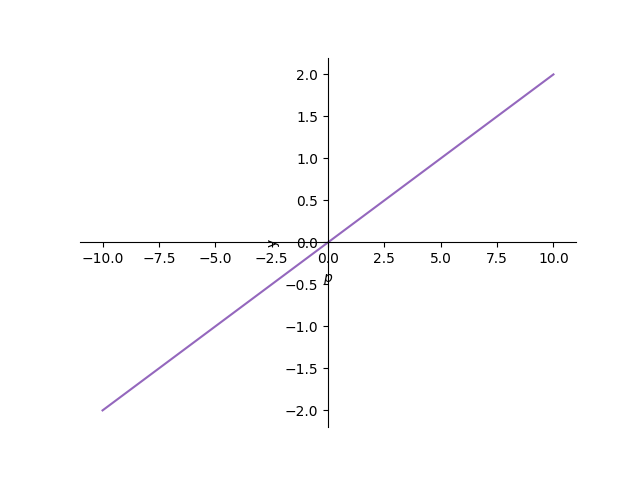
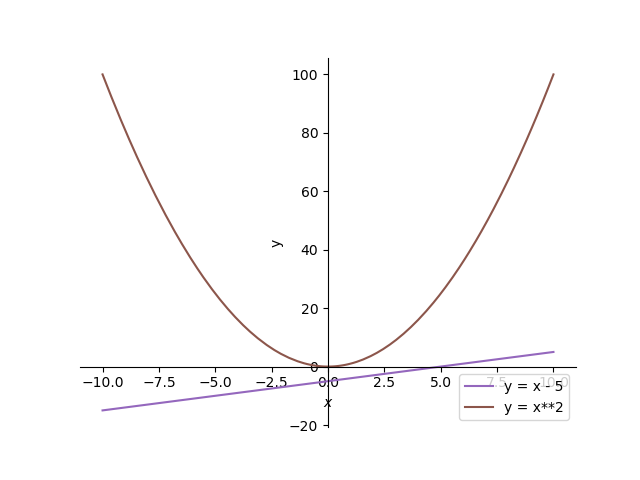
them chu thich cac do thi by Pham Trong Khanh

diff --git a/Vedothihamso/VD/EquationTab.py b/Vedothihamso/VD/EquationTab.py
@@ -18,18 +18,18 @@ class EquationTab(PyQt6.QtWidgets.QWidget):
         self.layout = PyQt6.QtWidgets.QVBoxLayout()
 
         # add label
-        self.label = PyQt6.QtWidgets.QLabel("phương trình")
+        self.label = PyQt6.QtWidgets.QLabel("Equations")
 
         # add label to layout
         self.layout.addWidget(self.label)
 
         # add button
-        self.button = PyQt6.QtWidgets.QPushButton("Thêm phương trình")
+        self.button = PyQt6.QtWidgets.QPushButton("Add Equation")
 
         # add equation when button is clicked
         self.button.clicked.connect(self.add_equation)
 
-        self.refresh_button = PyQt6.QtWidgets.QPushButton("Vẽ đồ thị")
+        self.refresh_button = PyQt6.QtWidgets.QPushButton("Refesh")
         self.refresh_button.clicked.connect(self.refresh)
 
         # add button to layout
@@ -58,20 +58,15 @@ class EquationTab(PyQt6.QtWidgets.QWidget):
             if equation.equation_right is None:
                 continue
             lhs, rhs = equation.equation_left, equation.equation_right
+            intersection_points = sympy.solve(lhs - rhs, sympy.var("y"))
+
             for f in sympy.solve(lhs - rhs, sympy.var("y")):
+                label = f'y = {f}'
                 if plot is None:
-                    plot = sympy.plotting.plot(
-                        f,
-                        show=False,
-                        line_color=color,
-                        ylabel="y")
+                    plot = sympy.plotting.plot(f, show=False, line_color=color, ylabel="y", legend=True, label=label)
                 else:
-                    plot.extend(sympy.plotting.plot(
-                        f,
-                        show=False,
-                        line_color=color,
-                        ylabel="y")
-                    )
+                    plot.extend(
+                        sympy.plotting.plot(f, show=False, line_color=color, ylabel="y", legend=True, label=label))
         if plot is not None:
             if not os.path.exists("cache"):
                 os.mkdir("cache")
